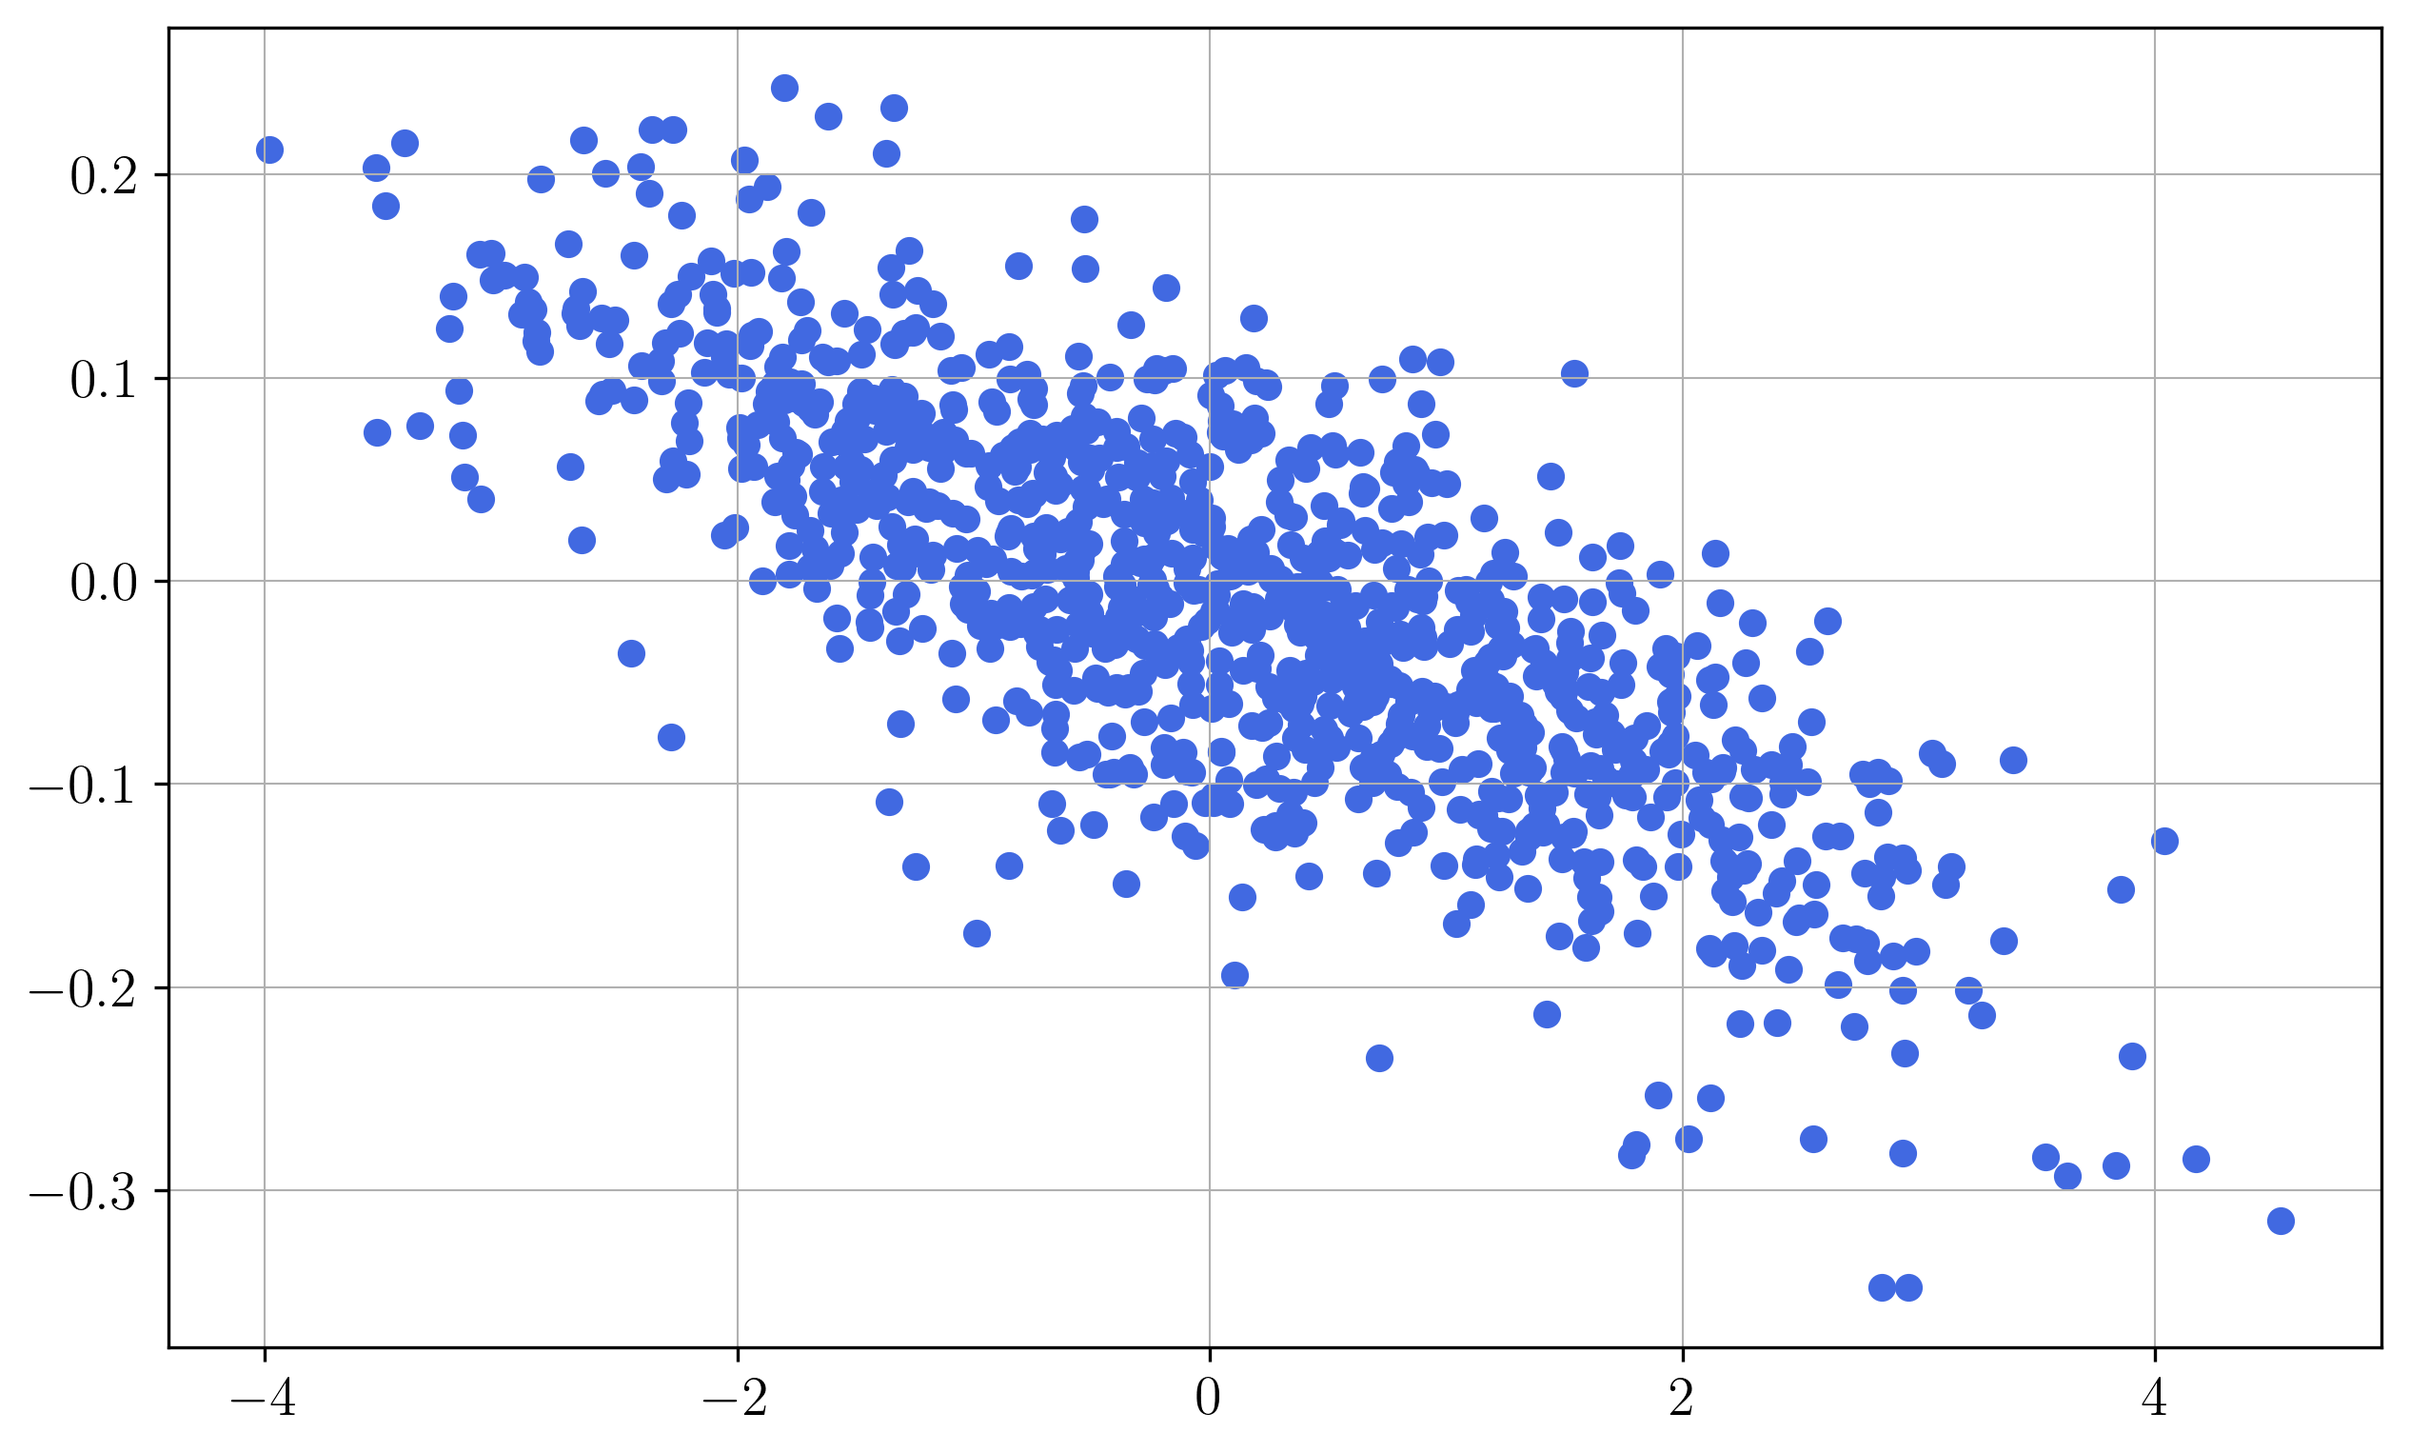
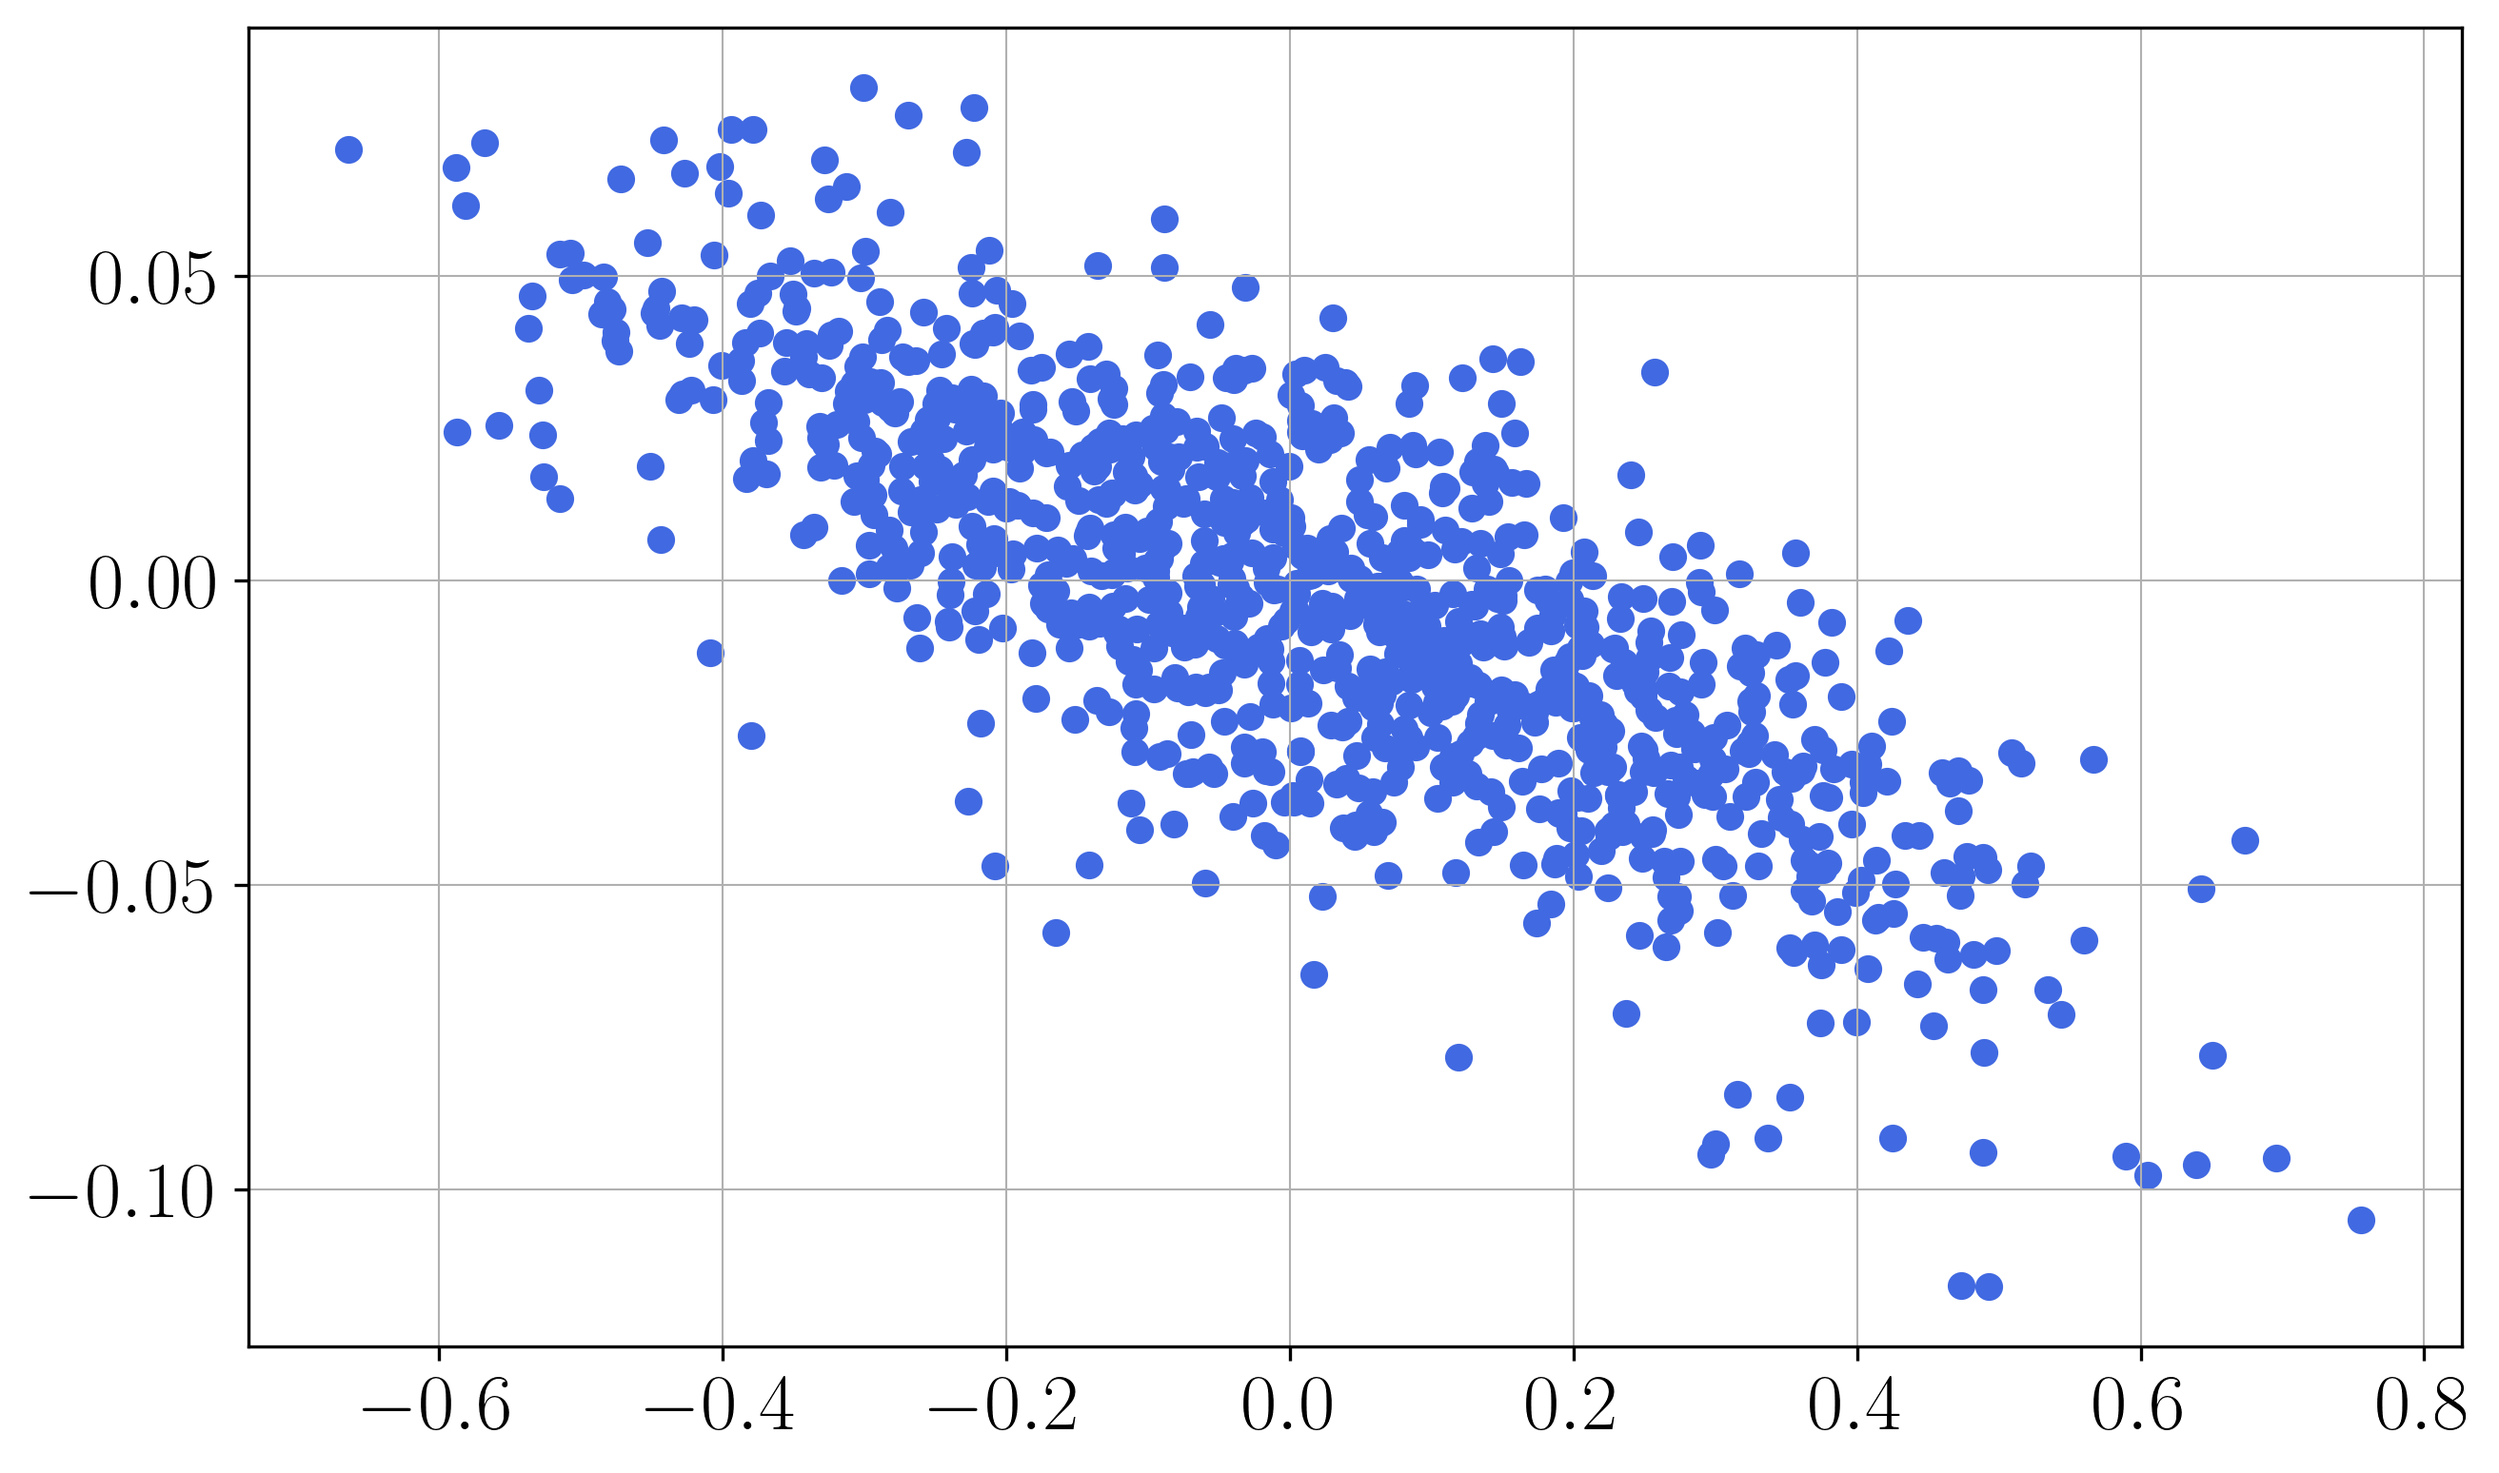
plots

diff --git a/thesis_plots/plot_spec.py b/thesis_plots/plot_spec.py
@@ -1,0 +1,198 @@
+## Code to generate the 10^4 parameters, strains and spectrograms
+
+import sys
+import os
+
+from gwpy.timeseries import TimeSeries
+
+import matplotlib.pyplot as plt
+import numpy as np
+
+from few.trajectory.inspiral import EMRIInspiral
+from few.amplitude.romannet import RomanAmplitude
+from few.amplitude.interp2dcubicspline import Interp2DAmplitude
+from few.waveform import FastSchwarzschildEccentricFlux, SlowSchwarzschildEccentricFlux, GenerateEMRIWaveform
+from few.utils.utility import (get_overlap,
+                               get_mismatch,
+                               get_fundamental_frequencies,
+                               get_separatrix,
+                               get_mu_at_t,
+                               get_p_at_t,
+                               get_kerr_geo_constants_of_motion,
+                               xI_to_Y,
+                               Y_to_xI)
+
+from few.utils.ylm import GetYlms
+from few.utils.modeselector import ModeSelector
+from few.summation.interpolatedmodesum import CubicSplineInterpolant
+from few.waveform import SchwarzschildEccentricWaveformBase
+from few.summation.interpolatedmodesum import InterpolatedModeSum
+from few.summation.directmodesum import DirectModeSum
+from few.utils.constants import *
+from few.summation.aakwave import AAKSummation
+from few.waveform import Pn5AAKWaveform, AAKWaveformBase
+
+
+
+use_gpu = False
+
+# keyword arguments for inspiral generator (RunSchwarzEccFluxInspiral)
+inspiral_kwargs={
+        "DENSE_STEPPING": 0,  # we want a sparsely sampled trajectory
+        "max_init_len": int(1e3),  # all of the trajectories will be well under len = 1000
+    }
+
+# keyword arguments for inspiral generator (RomanAmplitude)
+amplitude_kwargs = {
+    "max_init_len": int(1e3),  # all of the trajectories will be well under len = 1000
+    "use_gpu": use_gpu  # GPU is available in this class
+}
+
+# keyword arguments for Ylm generator (GetYlms)
+Ylm_kwargs = {
+    "assume_positive_m": False  # if we assume positive m, it will generate negative m for all m>0
+}
+
+# keyword arguments for summation generator (InterpolatedModeSum)
+sum_kwargs = {
+    "use_gpu": use_gpu,  # GPU is availabel for this type of summation
+    "pad_output": False,
+}
+
+# THE FOLLOWING THREAD COMMANDS DO NOT WORK ON THE M1 CHIP, BUT CAN BE USED WITH OLDER MODELS
+# EVENTUALLY WE WILL PROBABLY REMOVE OMP WHICH NOW PARALLELIZES WITHIN ONE WAVEFORM AND LEAVE IT TO
+# THE USER TO PARALLELIZE FOR MANY WAVEFORMS ON THEIR OWN.
+
+# set omp threads one of two ways
+# num_threads = 4
+
+# this is the general way to set it for all computations
+# from few.utils.utility import omp_set_num_threads
+# omp_set_num_threads(num_threads)
+
+few = FastSchwarzschildEccentricFlux(
+    inspiral_kwargs=inspiral_kwargs,
+    amplitude_kwargs=amplitude_kwargs,
+    Ylm_kwargs=Ylm_kwargs,
+    sum_kwargs=sum_kwargs,
+    use_gpu=use_gpu,
+    # num_threads=num_threads,  # 2nd way for specific classes
+)
+
+
+
+gen_wave = GenerateEMRIWaveform("Pn5AAKWaveform")
+
+# parameters
+T = 0.05 # years
+dt = 5  # seconds
+
+M = 1e4  # solar mass
+mu = 1  # solar mass
+
+dist = 1.0  # distance in Gpc
+
+p0 = 12.0
+e0 = 0.2
+x0 = 0.99  # will be ignored in Schwarzschild waveform
+
+qS = 1E-6  # polar sky angle
+phiS = 0.0  # azimuthal viewing angle
+
+
+# spin related variables
+a = 0.6  # will be ignored in Schwarzschild waveform
+qK = 1E-6  # polar spin angle
+phiK = 0.0  # azimuthal viewing angle
+
+
+# Phases in r, theta and phi
+Phi_phi0 = 0
+Phi_theta0 = 0
+Phi_r0 = 0
+
+# Generate the random parameters for the EMRIs
+# The parameters include M, mu / d, a, e0 and p0
+
+def gen_parameters(N):
+    n = np.random.uniform(4, 7, N)
+    M = 10 ** n
+    dm = np.random.uniform(1, 1E2, N)
+    a = np.random.uniform(0, 1, N)
+    e0 = np.random.uniform(0.1, 0.7, N)
+    p0 = np.random.uniform(10, 16, N)
+
+    parameters = np.array([np.array([M[i], dm[i], a[i], e0[i], p0[i]]) for i in range(N)])
+
+    return parameters
+
+# Generate the strain h from the parameters par and returns it
+def gen_strain(par):
+    M = par[:, 0]
+    mu = np.ones_like(M)
+    d = par[:, 1]
+    a = par[:, 2]
+    e0 = par[:, 3]
+    p0 = par[:, 4]
+
+    h = [gen_wave(M[i], mu[i], a[i], p0[i], e0[i], x0, d[i], qS, phiS, qK, phiK, Phi_phi0, Phi_theta0, Phi_r0, T=T, dt=dt) for i in range(len(d))]
+
+    return h
+
+# Generate the spectrograms of the given strains
+def gen_specs(hs):
+
+    specs = []
+
+    for h in hs:
+        
+        # Fill the strain array with zeros, so that all have the same length
+        # independant of the signal duration
+        hp = np.pad(h.real, (0, 315582 - len(h)))
+
+        ts = TimeSeries(hp, dt = dt)
+
+        data = ts.spectrogram(2E4) ** (1/2)
+
+
+        specs.append(data)
+
+    return specs
+
+# Save the spectrogram files as csv data
+def save_files(files, loc, n = 0):
+    for i in range(len(files)):
+        np.savetxt("./thesis_plots/plots/spec_{}.png".format(i), np.array(files[i]), delimiter = ",")
+
+
+
+
+# Save the parameters in a csv file
+p0 = np.genfromtxt("/hpcwork/cg457676/data/parameters/parameters_0.csv", delimiter = ",")[49]
+p1 = np.genfromtxt("/hpcwork/cg457676/data/parameters/parameters_0.csv", delimiter = ",")[49]
+
+p1[0] /= 10 ** 0.05
+p1[-1] += 1
+
+par = np.array([p0, p1])
+
+h = gen_strain(par)
+
+specs = gen_specs(h)
+
+i = 0
+
+for spec in specs:
+
+    plot = spec.imshow(norm='log', vmin = np.max(specs) * 1E-6)
+    ax = plot.gca()
+    ax.set_yscale('log')
+    ax.set_ylim(1E-4, 1E-1)
+    ax.colorbar(
+    label=r'Gravitational-wave amplitude [strain/$\sqrt{\mathrm{Hz}}$]')
+    plot.savefig("./test_{}.png".format(i))
+    
+    i += 1
+
+
+

diff --git a/Network/plot_corr.py b/Network/plot_corr.py
@@ -11,10 +11,10 @@ plt.rcParams['axes.formatter.useoffset'] = False
 plt.rcParams['lines.linewidth'] = 2
 plt.rcParams['errorbar.capsize'] = 2
 plt.rcParams['grid.linewidth'] = 0.5
-plt.rcParams['axes.labelsize'] = 18
-plt.rcParams['axes.titlesize'] = 18
-plt.rcParams['xtick.labelsize'] = 14
-plt.rcParams['ytick.labelsize'] = 14
+plt.rcParams['axes.labelsize'] = 26
+plt.rcParams['axes.titlesize'] = 26
+plt.rcParams['xtick.labelsize'] = 20
+plt.rcParams['ytick.labelsize'] = 20
 plt.rcParams['legend.title_fontsize'] = 14
 plt.rcParams['legend.fontsize'] = 14
 plt.rcParams['savefig.dpi'] = 300
@@ -30,11 +30,11 @@ n_run = 13
 data = pd.read_csv("./Network/network_output/run_1.{:02}/deltas.txt".format(n_run), delimiter = ",", names = ["$x_0$", "$x_1$", "$x_2$", "$x_3$", "$x_4$"])
 # data = pd.read_csv("/hpcwork/cg457676/data/processed_parameter/pro_par9.csv", delimiter = ",", names = ["Mass", "Distance", "Spin", "Eccentricity", "Seperation"])
 
-data["$x_0$"] = 3 * data["$x_0$"]
-data["$x_1$"] = 99 * data["$x_1$"]
-data["$x_2$"] = 1 * data["$x_2$"]
-data["$x_3$"] = 0.6 * data["$x_3$"]
-data["$x_4$"] = 6 * data["$x_4$"]
+# data["$x_0$"] = 3 * data["$x_0$"]
+# data["$x_1$"] = 99 * data["$x_1$"]
+# data["$x_2$"] = 1 * data["$x_2$"]
+# data["$x_3$"] = 0.6 * data["$x_3$"]
+# data["$x_4$"] = 6 * data["$x_4$"]
 
 print(np.min(data), np.max(data))
 
@@ -49,14 +49,14 @@ plt.savefig("test.png")
 
 sns.set_theme()
 
-plot = sns.PairGrid(data, height = 2)
+plot = sns.PairGrid(data, height = 1.5)
 
 plot.map_upper(sns.kdeplot, fill = True)
 plot.map_lower(sns.scatterplot, s = 5)
 plot.map_diag(sns.histplot, kde=True)
 
 
-plt.savefig("./thesis_plots/Correlations.png".format(n_run))
+plt.savefig("./thesis_plots/plots/Correlations_x'.png".format(n_run))
 
 
 
